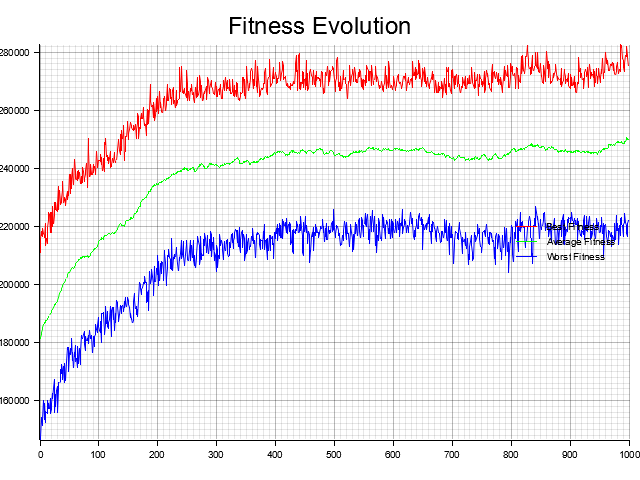
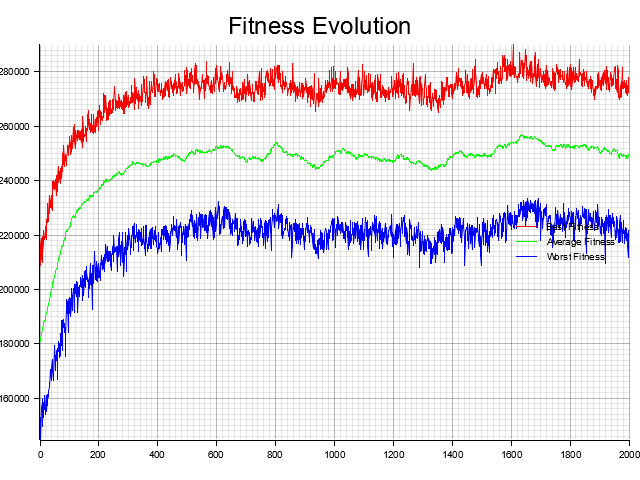
Added new best run

Changed region(s): [[0.0, 0.0938, 1.0, 0.9688]]

diff --git a/Project_1/src/main.rs b/Project_1/src/main.rs
@@ -246,9 +246,9 @@ fn main() -> Result<(), Box<dyn Error>> {
     let data = read_csv("data/KP/knapPI_12_500_1000_82.csv")?;
     let bitstring_length = data.len();
     let mutation_rate = 1.0 / (bitstring_length as f64);
-    let mut population = Population::new(500, bitstring_length, mutation_rate, data);
+    let mut population = Population::new(1000, bitstring_length, mutation_rate, data);
 
-    let (best_fitness, avg_fitness, worst_fitness) = population.run_evolution(total_space, 500);
+    let (best_fitness, avg_fitness, worst_fitness) = population.run_evolution(total_space, 2000);
 
     plot_fitness(
         &best_fitness,
